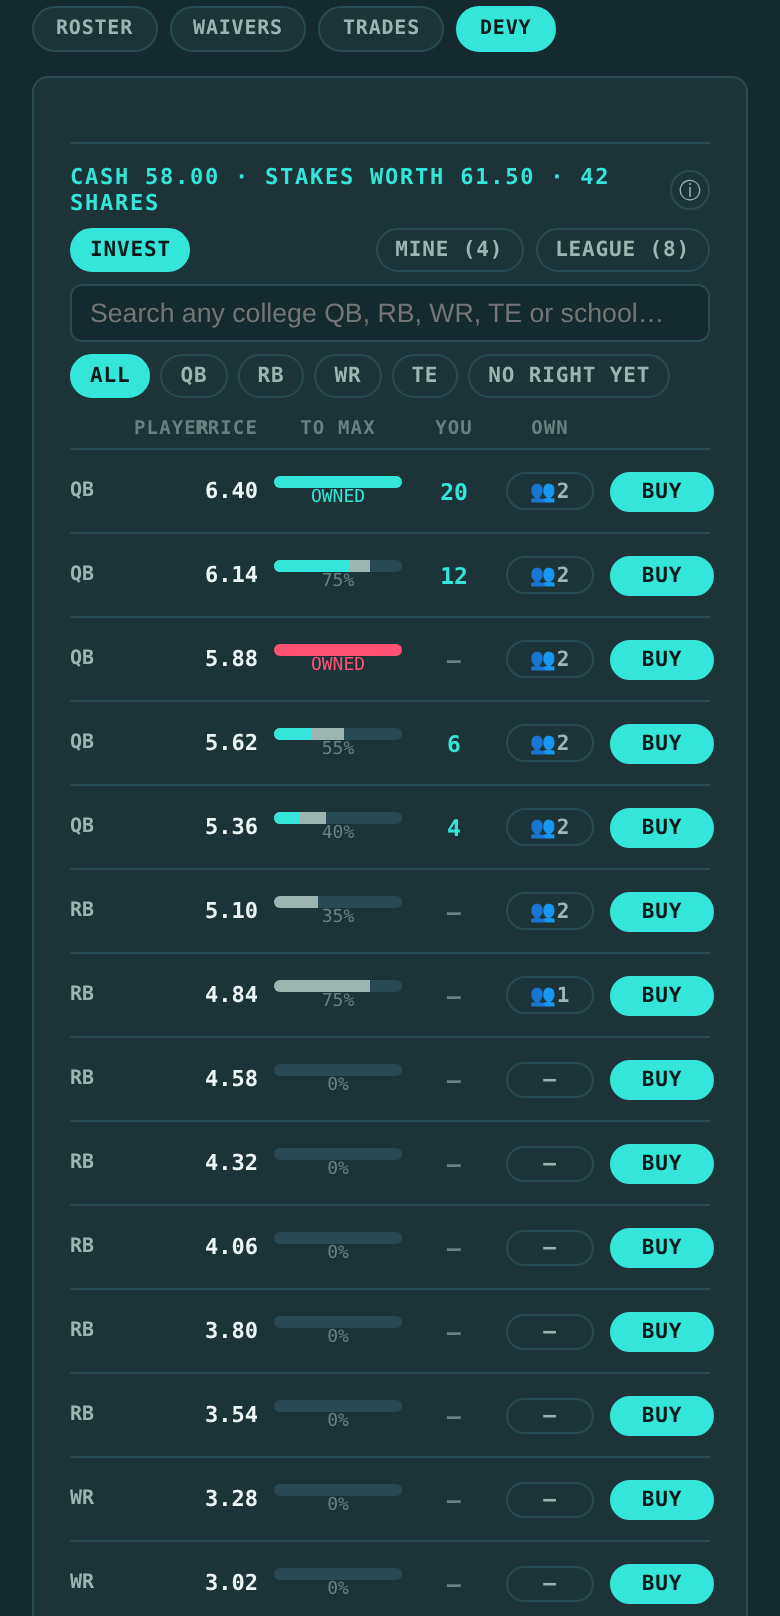
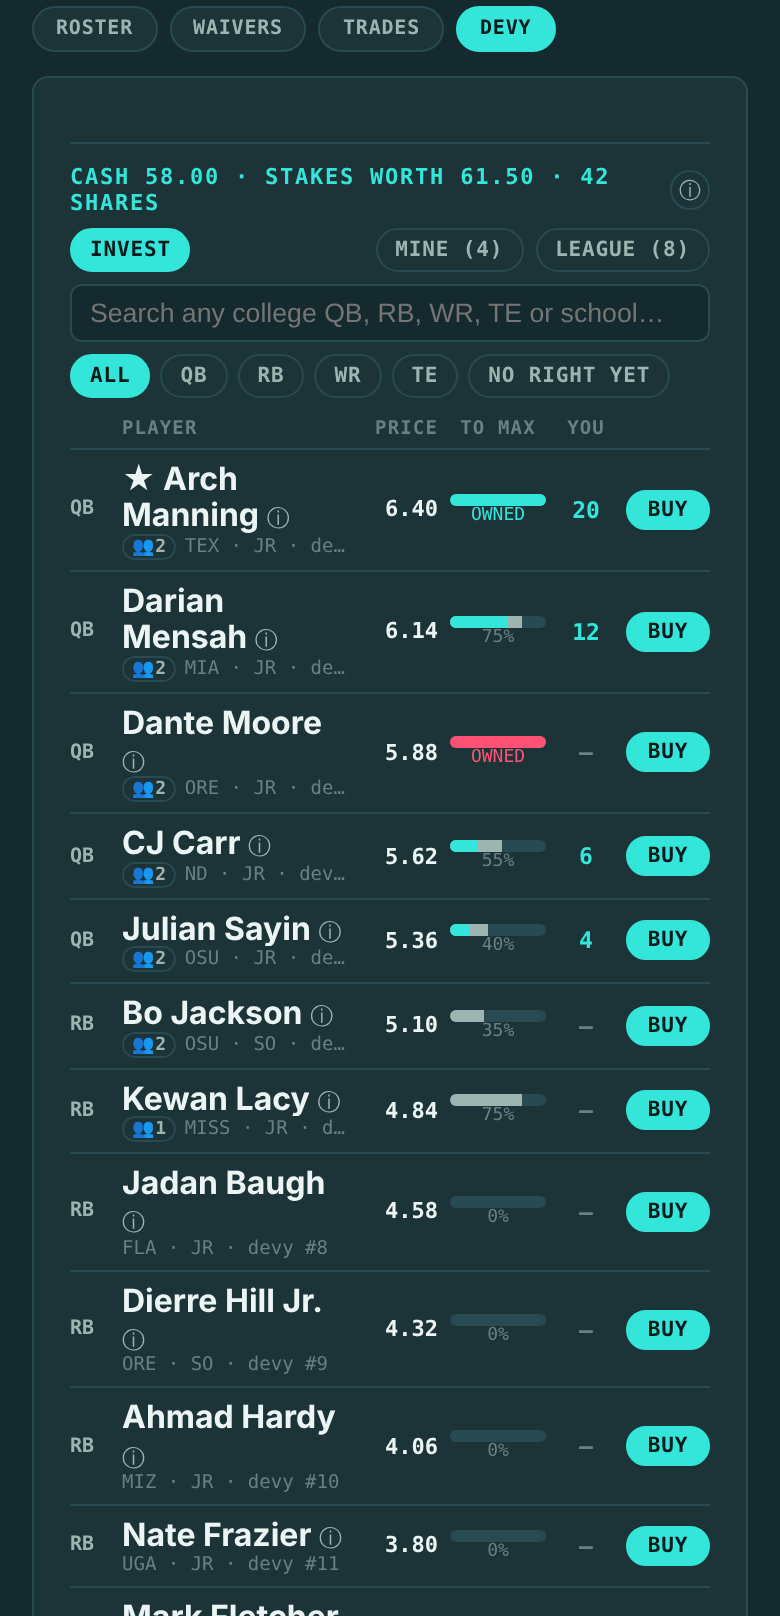
v0.652.2: the demo button only with Drip lit; the devy market fits a phone; the screens reframed (#1163)
Founder: "Let's get the mixed image to show two NFL spots and two College.
The devy image is kinda squished and we don't have player names. For
roster spots, let's show a variety of what you can assign. For scoped
positions, lets do 'Vets 7+', 'NFC Only', 'Rookie SF'. Single spot best
ball doesn't actually show a single spot bestball spot. Scoped bonuses, we
don't need the walls of text. Demo button should only show on when you
select the drip chip."

- Landing: the matchup card's button renders only while the Drip chip's
  line is open.
- DevyShares (a real phone-width bug the screenshot exposed): the INVEST
  grid's fixed columns added up to a 390px screen and the name's 1fr
  collapsed to nothing. Under 430px the OWN column goes, its chip rides the
  subline (still a tap), the other columns tighten, and a long name wraps.
- The screens re-shot: mixed college on two NFL spots and the two college
  spots; scoped with Vets 7+ (Davante Adams vs Mike Evans), NFC Only and
  Rookie SF; a single best-ball spot; the roster builder with a spread of
  spot kinds; scoped bonuses opening on the rules.

Claude-Session: https://claude.ai/code/session_01Ra1P2uYs7L1wujHxgAdth4

diff --git a/src/screens/DevyShares.tsx b/src/screens/DevyShares.tsx
@@ -9,7 +9,7 @@ import { leagueCustomCollege, commishAddCustomCollege, commishRemoveCustomColleg
 import { allotDevyShares, devyMarket, devySharesState, devyLaunchState, placeDevyLaunchOrder, setLeagueDevyLaunch, commishDevyLaunchNow, friendlyError, type DevyLaunchState, type DevyLaunchPlayer, type DevyLaunchCfg, setLeagueDevyMode, setLeagueDevyStartCash, setLeagueDevyOpen, type DevyMarketRow, type DevySharePlayer, type DevySharesState } from '@drip/core/data/liveApi';
 import { collegeClassLabel } from '@drip/core/data/college';
 import { openPlayerCard } from '../app/playerCard';
-import { ModalBackdrop } from '../app/ui';
+import { ModalBackdrop, useIsMobile } from '../app/ui';
 import { teamBook, myStake, rightLine, lockLine, stakeLine, fmtPts, maxBuy, devyRulesText, stakesOf, DEEP_SEARCH_MIN, MARKET_PAGE, MARKET_FIRST_FETCH, marketNext, marketFooter, marketLines, shapeMarket, nextSort, marketSubline, MARKET_FILTERS, launchBanner, launchOrderMax, launchRulesText, slotLabel, DOW_LABELS, tradePreview, type MarketLine, type MarketSort, type MarketFilter } from '@drip/core/data/devyShares';
 
 const chip = (on: boolean): React.CSSProperties => ({
@@ -21,6 +21,7 @@ const small: React.CSSProperties = { fontSize: 11.5, color: 'var(--dim)' };
 
 export function DevySharesPanel({ leagueId, myRoster }: { leagueId: string; myRoster: number | null }) {
   const [st, setSt] = useState<DevySharesState | null>(null);
+  const tight = useIsMobile(430); // the phone-width table, see COLS below; a hook, so it sits above the early return
   // v0.577.0: the DEVY tab opens on the market.
   const [view, setView] = useState<'mine' | 'league' | 'add'>('add');
   const [filter, setFilter] = useState<MarketFilter>('ALL');
@@ -169,17 +170,24 @@ export function DevySharesPanel({ leagueId, myRoster }: { leagueId: string; myRo
   /** INVEST (v0.576.0 → v0.579.0): price, the TO MAX bar, YOUR shares, an
    *  owners chip (who holds him, in a pop-up) and BUY, which opens the
    *  purchase sheet. */
-  const COLS = '24px minmax(0,1fr) 54px 64px 36px 44px 52px';
+  // A PHONE GETS THE NAME BACK (v0.652.2). The fixed columns added up to the
+  // whole width of a 390px screen and the name's 1fr collapsed to nothing —
+  // a market of positions and prices with nobody in it. Under 430px the
+  // owners chip moves into the subline (still a tap) and the rest tighten.
+  const COLS = tight ? '20px minmax(0,1fr) 40px 48px 28px 42px' : '24px minmax(0,1fr) 54px 64px 36px 44px 52px';
+  const GAP = tight ? 6 : 8;
   const investRow = (l: MarketLine) => {
     const r = l.row;
     const pct = (x: number) => `${Math.round(x * 100)}%`;
     return (
-      <div key={r.slug} style={{ display: 'grid', gridTemplateColumns: COLS, gap: 8, alignItems: 'center', borderBottom: '1px solid var(--bd)', padding: '5px 0' }}>
+      <div key={r.slug} style={{ display: 'grid', gridTemplateColumns: COLS, gap: GAP, alignItems: 'center', borderBottom: '1px solid var(--bd)', padding: '5px 0' }}>
         <span className="mono" style={{ fontSize: 10, fontWeight: 700, color: 'var(--dim)' }}>{r.pos}</span>
         <span style={{ minWidth: 0, overflow: 'hidden' }}>
-          <span role="button" title="Player card" style={{ display: 'block', fontWeight: 700, color: 'var(--text)', cursor: 'pointer', whiteSpace: 'nowrap', overflow: 'hidden', textOverflow: 'ellipsis' }}
+          <span role="button" title="Player card" style={{ display: 'block', fontWeight: 700, color: 'var(--text)', cursor: 'pointer', whiteSpace: tight ? 'normal' : 'nowrap', overflow: 'hidden', textOverflow: 'ellipsis', lineHeight: tight ? 1.15 : undefined }}
             onClick={() => openPlayerCard({ slug: r.slug, name: r.name, pos: r.pos, team: r.school ?? '', leagueId })}>{l.right?.mine ? '★ ' : ''}{r.name} <span style={{ ...small, fontWeight: 400 }}>ⓘ</span></span>
-          <span className="mono" style={{ display: 'block', fontSize: 9.5, color: 'var(--faint)', whiteSpace: 'nowrap', overflow: 'hidden', textOverflow: 'ellipsis' }}>{marketSubline(r)}</span>
+          <span className="mono" style={{ display: 'block', fontSize: 9.5, color: 'var(--faint)', whiteSpace: 'nowrap', overflow: 'hidden', textOverflow: 'ellipsis' }}>
+            {tight && l.owners.length > 0 && <button style={{ ...chip(false), padding: '0 4px', fontSize: 9, marginRight: 4 }} onClick={() => setOpenOwners(r.slug)} title="Who holds shares in him">👥{l.owners.length}</button>}
+            {marketSubline(r)}</span>
         </span>
         <span className="mono" style={{ fontSize: 11, fontWeight: 700, color: 'var(--text)', textAlign: 'right' }}>{fmtPts(l.price)}</span>
         <span title={l.lead >= 1 ? 'A stake is maxed — his right is owned' : `The leading stake is ${pct(l.lead)} of the way to maxing`}>
@@ -190,8 +198,8 @@ export function DevySharesPanel({ leagueId, myRoster }: { leagueId: string; myRo
           <span className="mono" style={{ display: 'block', textAlign: 'center', fontSize: 9, color: l.lead >= 1 ? (l.leadMine ? 'var(--you)' : 'var(--opp)') : 'var(--faint)' }}>{l.lead >= 1 ? 'OWNED' : pct(l.lead)}</span>
         </span>
         <span className="mono" style={{ textAlign: 'center', fontSize: 11.5, fontWeight: 700, color: l.mine ? 'var(--you)' : 'var(--faint)' }}>{l.mine || '—'}</span>
-        <button style={{ ...chip(false), padding: '2px 0' }} disabled={!l.owners.length} onClick={() => setOpenOwners(r.slug)} title="Who holds shares in him">
-          {l.owners.length ? `👥${l.owners.length}` : '—'}</button>
+        {!tight && <button style={{ ...chip(false), padding: '2px 0' }} disabled={!l.owners.length} onClick={() => setOpenOwners(r.slug)} title="Who holds shares in him">
+          {l.owners.length ? `👥${l.owners.length}` : '—'}</button>}
         {myRoster != null
           ? <button style={{ ...chip(true), padding: '3px 0', fontWeight: 800 }} disabled={locked} onClick={() => setTrade({ slug: r.slug, mode: 'buy', n: 1 })}>BUY</button>
           : <span />}
@@ -277,8 +285,8 @@ export function DevySharesPanel({ leagueId, myRoster }: { leagueId: string; myRo
         </>) : (<>
         {deep && deep.length === 0 && <div style={small}>No college QB, RB, WR or TE matches that.</div>}
         {addList.length > 0 && (
-          <div style={{ display: 'grid', gridTemplateColumns: COLS, gap: 8, padding: '4px 0', borderBottom: '1px solid var(--bd)' }}>
-            <span />{head('PLAYER', 'name', 'left')}{head('PRICE', 'price', 'right')}{head('TO MAX', 'lead')}{head('YOU', 'mine')}{head('OWN', 'owners')}<span />
+          <div style={{ display: 'grid', gridTemplateColumns: COLS, gap: GAP, padding: '4px 0', borderBottom: '1px solid var(--bd)' }}>
+            <span />{head('PLAYER', 'name', 'left')}{head('PRICE', 'price', 'right')}{head('TO MAX', 'lead')}{head('YOU', 'mine')}{!tight && head('OWN', 'owners')}<span />
           </div>
         )}
         {market && addList.length === 0 && !(deep && deep.length === 0) && <div style={small}>Nobody matches that filter.</div>}

diff --git a/src/screens/Landing.tsx b/src/screens/Landing.tsx
@@ -230,10 +230,14 @@ export function Landing() {
                     {/* The demo door (v0.652.1, founder: "after the paragraph,
                         not on the image"): the button sits under the chips'
                         line, and the picture is just the picture. */}
-                    <button onClick={toDemo} className="mono" title="Play a week of Drip — free, no sign-in"
-                      style={{ ...cta, alignSelf: 'flex-start', padding: '11px 18px' }}>
-                      ▶ {FUNNEL.demo.toUpperCase()}
-                    </button>
+                    {/* v0.652.2, founder: "Demo button should only show when you select
+                        the drip chip." */}
+                    {openNote === `${g.heading}|Drip` && (
+                      <button onClick={toDemo} className="mono" title="Play a week of Drip — free, no sign-in"
+                        style={{ ...cta, alignSelf: 'flex-start', padding: '11px 18px' }}>
+                        ▶ {FUNNEL.demo.toUpperCase()}
+                      </button>
+                    )}
                     <Rail shots={shots} ratio="16 / 9" width="100%" base={base} index={idx} onIndex={pickShot} onTap={toDemo} />
                   </>
                 ) : (

diff --git a/packages/core/src/version.ts b/packages/core/src/version.ts
@@ -2,7 +2,7 @@
 // Versioning: 3-part semver, pre-1.0. Bump patch per deploy (0.10.1, 0.10.2…),
 // minor for bigger features (0.11, 0.12…). Segments aren't capped at 9, so 1.0
 // is a deliberate choice, not an automatic rollover.
-export const APP_VERSION = 'v0.652.1';
+export const APP_VERSION = 'v0.652.2';
 
 // Stat data + 2025 NFL play-by-play powering this game comes from Stathead.
 export const DATA_SOURCE = { name: 'Stathead', url: 'https://stathead.app' };

diff --git a/public/brand/funnel/README.md b/public/brand/funnel/README.md
@@ -2,7 +2,7 @@
 
 Phone screenshots for the landing's feature cards (v0.650.0).
 
-**What's here now (v0.652.0) are stand-ins**: the in-game screens shot from the
+**What's here now (v0.652.2) are stand-ins**: the in-game screens shot from the
 web app at phone size against fixture data, mark-free (no NFL logos or
 headshots), until the founder's app screenshots replace them. Overwrite file
 for file; the names are fixed. Shoot yours mark-free too (Settings, or
@@ -21,16 +21,16 @@ app header) and keep the thing you're showing in the upper half.
 | `league-redraft.png` | League types | The classic matchup board (the Redraft · Keeper · Dynasty chip) |
 | `league-contract.png` | League types | The cap sheet: every deal, its salary and years, under the cap |
 | `league-full-college.png` | League types | A matchup board where every spot is a 2026 college player, Saturday games |
-| `league-mixed-college.png` | League types | An NFL matchup board (no K or D/ST) with two college spots |
+| `league-mixed-college.png` | League types | An NFL matchup board (no K or D/ST) opening on two NFL spots and the two college spots |
 | `league-devy-market.png` | League types | The devy market: prices, stakes, and BUY |
 | `mode-vampire.png` | Competitive modes | The vampire's feeding log: each win and the bite it earned |
 | `mode-guillotine.png` | Competitive modes | The chop report: one finished week on the block, who fell |
 | `mode-golf.png` | Competitive modes | A golf matchup board: LOW WINS, real low-usage starters projected a point or two |
 | `mode-bullseye.png` | Competitive modes | A bullseye matchup board: the target per spot and the distance from it |
-| `positions-roster.png` | Positions | The roster builder with every kind of spot (the Every position chip) |
-| `positions-scoped.png` | Positions | A lineup with an NFC Only spot and a rookie-only superflex that fills itself, on 2026 rosters |
-| `scoring-bestball-mix.png` | Scoring options | A matchup board mixing best-ball spots (AUTO) with hand-set ones |
-| `scoring-scoped-bonuses.png` | Scoring options | Scoring → Adjustments: the scoped bonuses |
+| `positions-roster.png` | Positions | The roster builder with a spread of spot kinds: superflex, rookie-only, one-team, best ball, zero-fill, IDP, returner, head coach |
+| `positions-scoped.png` | Positions | A lineup with Vets 7+, NFC Only and Rookie SF spots, on 2026 rosters |
+| `scoring-bestball-mix.png` | Scoring options | A matchup board with one best-ball spot (FLEX, AUTO) among hand-set ones |
+| `scoring-scoped-bonuses.png` | Scoring options | Scoring → Adjustments, opening on the scoped-bonus rules and the scope chips |
 
 The matchup card rotates the site's existing drip and classic screens in
 `public/brand/` (`shot-drip-live.png`, `shot-sealed.jpg`, `shot-duel.png`,

diff --git a/STATUS.md b/STATUS.md
@@ -22,6 +22,30 @@ Near-daily (git shows daily bursts; season launch Sep 9 is the forcing function)
 
 ## Last worked (superseded entries below)
 
+### v0.652.2 — the demo button only with Drip lit; the devy market fits a phone; the screens reframed
+
+> - On the front page the demo button appears only when the Drip chip is lit.
+> - The devy market's INVEST table now shows player names on a phone: the owners chip moves into the line under the name and the number columns tighten.
+> - The screens: the mixed-college board opens on two NFL spots and the two college spots; the scoped board shows Vets 7+, NFC Only and Rookie SF; the best-ball board has a single best-ball spot; the roster builder shows a spread of spot kinds (superflex, a rookie-only spot, a one-team spot, best ball, a zero-fill, IDP, a returner, a head coach); the scoped-bonuses screen opens on the rules, not the explainer.
+
+Founder: "Let's get the mixed image to show two NFL spots and two College.
+The devy image is kinda squished and we don't have player names. For roster
+spots, let's show a variety of what you can assign. For scoped positions,
+lets do 'Vets 7+', 'NFC Only', 'Rookie SF'. Single spot best ball doesn't
+actually show a single spot bestball spot. Scoped bonuses, we don't need the
+walls of text. Demo button should only show on when you select the drip
+chip."
+
+- `Landing.tsx`: the matchup card's button renders only while the Drip
+  chip's line is open.
+- `DevyShares.tsx` (a real phone-width bug, found by the screenshot): the
+  INVEST grid's fixed columns added up to a 390px screen and the name's
+  `1fr` collapsed to nothing. Under 430px the OWN column goes, its 👥 chip
+  rides the subline (still a tap), the other columns tighten, and a long
+  name wraps instead of clipping.
+- The screens re-shot as above; `Vets 7+` is Davante Adams (LA) against
+  Mike Evans (SF), both 12-year men on the 2026 rosters.
+
 ### v0.652.1 — the demo button under the line; the demo page is just the demo
 
 > - On the front page the "Click here for a demo" button sits under the matchup chips' line instead of on top of the picture.
